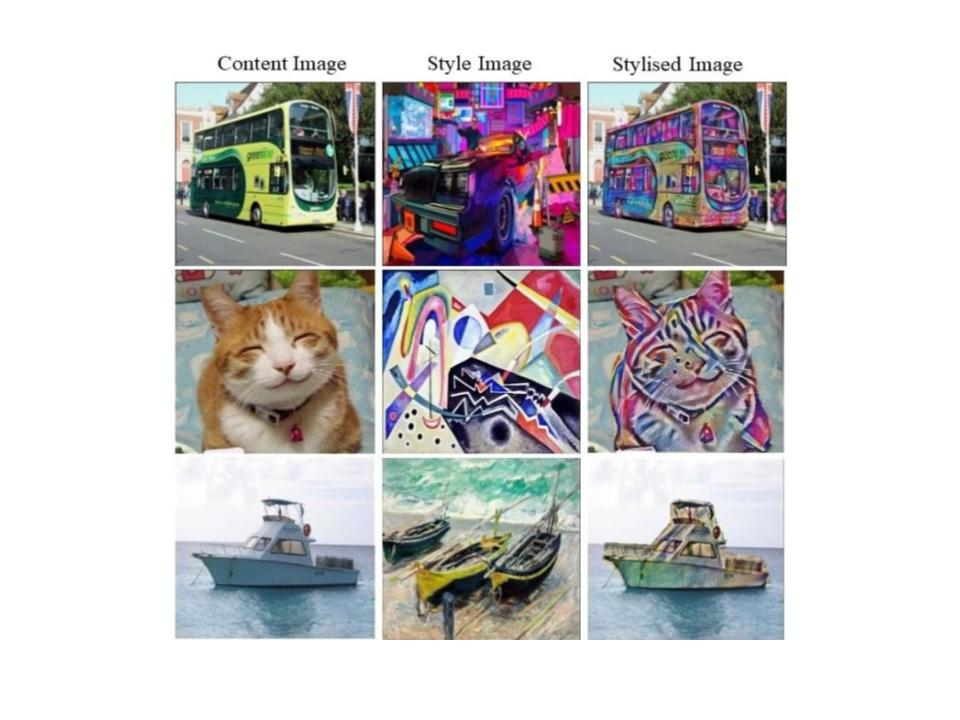
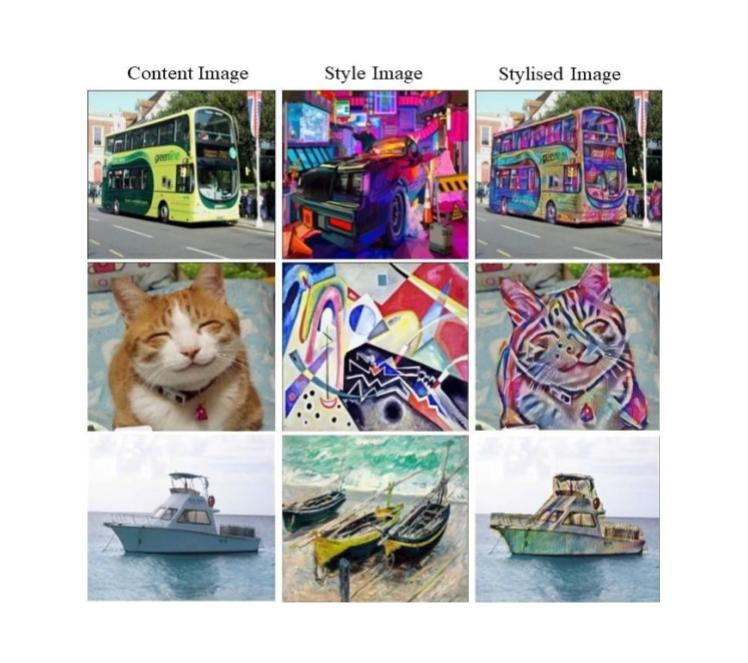
adjust picture sizes

diff --git a/_includes/research.md b/_includes/research.md
@@ -35,7 +35,7 @@
 <div class="pub-row">
 
   <div class="col-sm-3 abbr" style="position: relative;padding-right: 5px;padding-left: 15px;">
-    <img src="assets/img/pitch_intro_horizontal_icra.jpg" class="teaser img-fluid z-depth-1">
+    <img src="assets/img/early_new_icra.jpg" class="teaser img-fluid z-depth-1">
     <abbr class="badge">ICRA</abbr>
   </div>
 
@@ -85,7 +85,7 @@
 <div class="pub-row">
 
   <div class="col-sm-3 abbr" style="position: relative;padding-right: 15px;padding-left: 15px;">
-    <img src="assets/img/surgical_robot_model.png" class="teaser img-fluid z-depth-1">
+    <img src="assets/img/surgical_robot_model_drawing.jpg" class="teaser img-fluid z-depth-1">
     <abbr class="badge">Thesis</abbr>
   </div>
 

diff --git a/_includes/project.md b/_includes/project.md
@@ -60,7 +60,7 @@
 <div class="pub-row">
 
   <div class="col-sm-3 abbr" style="position: relative;padding-right: 15px;padding-left: 15px;">
-    <img src="assets/img/eecs504_Merge.jpg" class="teaser img-fluid z-depth-1">
+    <img src="assets/img/eecs504_merge_drawing.jpg" class="teaser img-fluid z-depth-1">
     <!-- <abbr class="badge">arXiv</abbr> -->
   </div>
 
@@ -86,7 +86,7 @@
 <div class="pub-row">
 
   <div class="col-sm-3 abbr" style="position: relative;padding-right: 15px;padding-left: 15px;">
-    <img src="assets/img/soft_robot.jpg" class="teaser img-fluid z-depth-1">
+    <img src="assets/img/soft_robot_drawing.jpg" class="teaser img-fluid z-depth-1">
     <!-- <abbr class="badge">arXiv</abbr> -->
   </div>
 
